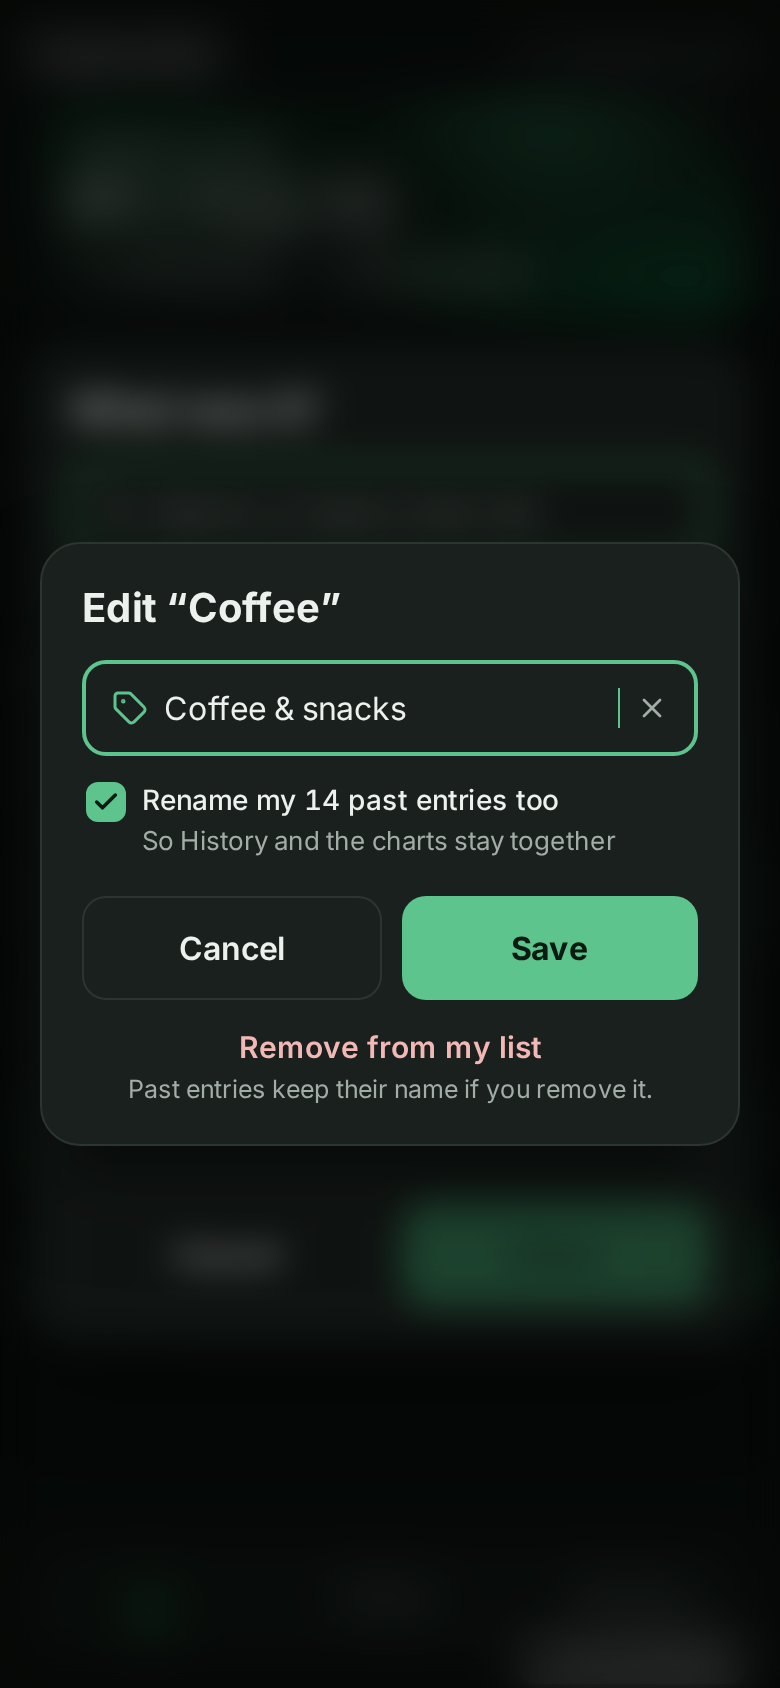
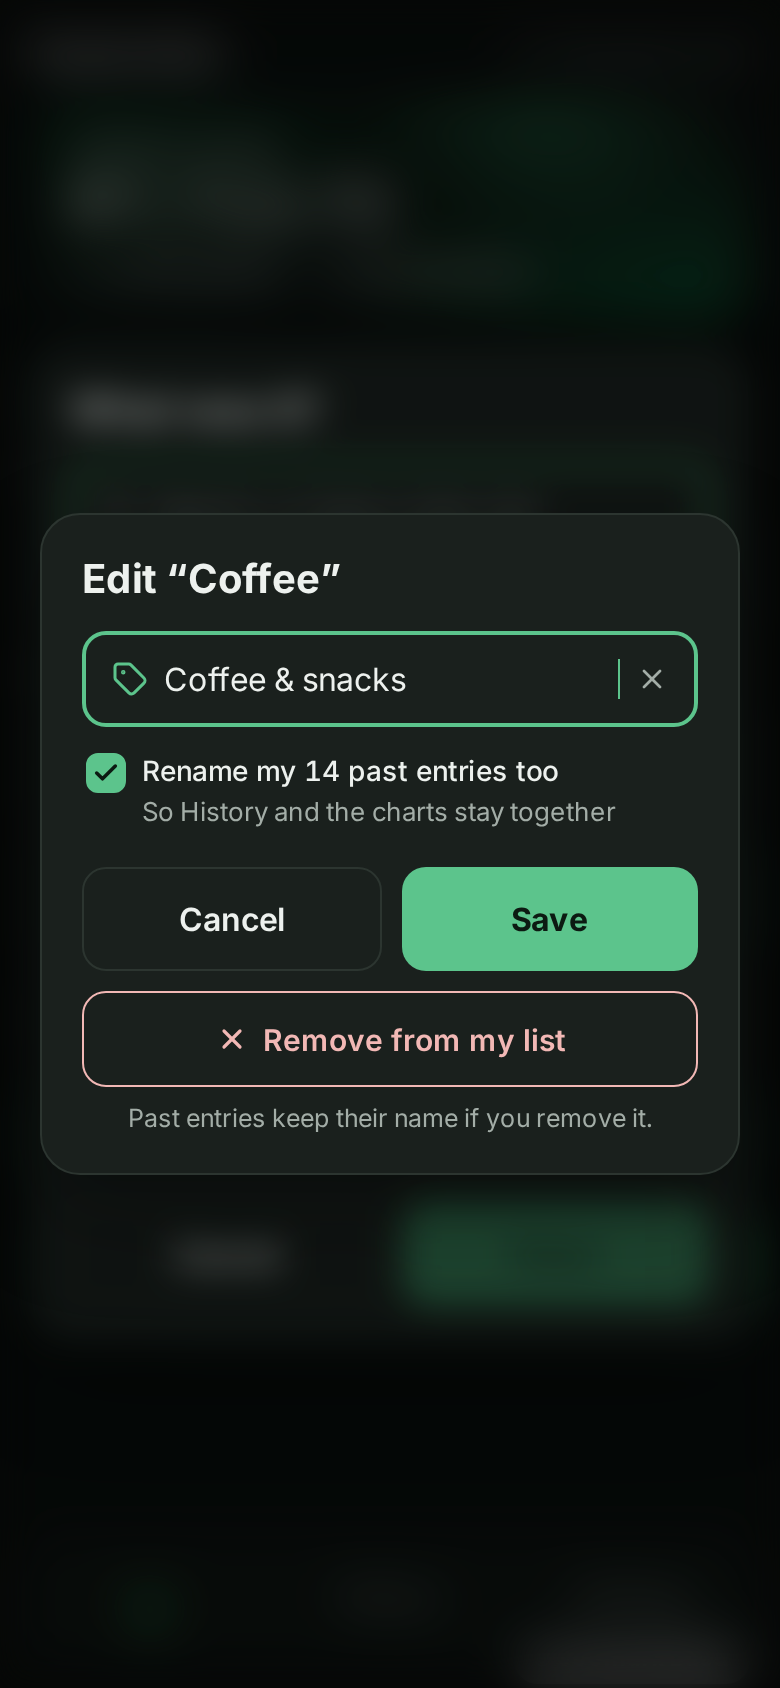
Mockups 3.1 round 5: Remove from my list as a rounded outlined button
Claude-Session: https://claude.ai/code/session_015nXdEW66MzNZpF9pMsWtRi

Changed region(s): [[0.0923, 0.3081, 0.8923, 0.6777]]

diff --git a/docs/mockups/3.1/mock.html b/docs/mockups/3.1/mock.html
@@ -311,8 +311,8 @@ function editDlg(){
     <div class="field focus" style="margin-top:14px">${ic('tag',18,2,'style="color:var(--accent)"')}<span style="flex:1">Coffee & snacks</span><span style="width:1.5px;height:20px;background:var(--accent)"></span>${ic('x',16,2,'style="color:var(--muted)"')}</div>
     <div class="check" style="margin:12px 2px 0;align-items:flex-start"><div class="box on" style="margin-top:1px">${ic('check',14,3)}</div><span style="line-height:20px">Rename my 14 past entries too<br><span style="font-size:13px;color:var(--muted);font-weight:400">So History and the charts stay together</span></span></div>
     <div class="row2"><div class="btn out">Cancel</div><div class="btn" style="font-size:16px">Save</div></div>
-    <div style="margin-top:14px;text-align:center;font-size:15px;font-weight:600;color:var(--danger)">Remove from my list</div>
-    <div style="margin-top:4px;text-align:center;font-size:12.5px;color:var(--muted)">Past entries keep their name if you remove it.</div></div>`;
+    <div style="margin-top:10px;height:48px;border:1.5px solid var(--danger);border-radius:12px;display:flex;align-items:center;justify-content:center;gap:8px;font-size:15px;font-weight:600;color:var(--danger)">${ic('x',16,2.4)}Remove from my list</div>
+    <div style="margin-top:8px;text-align:center;font-size:12.5px;color:var(--muted)">Past entries keep their name if you remove it.</div></div>`;
 }
 function otherDlg(q, typed){
   const ql = (q||'').toLowerCase();
